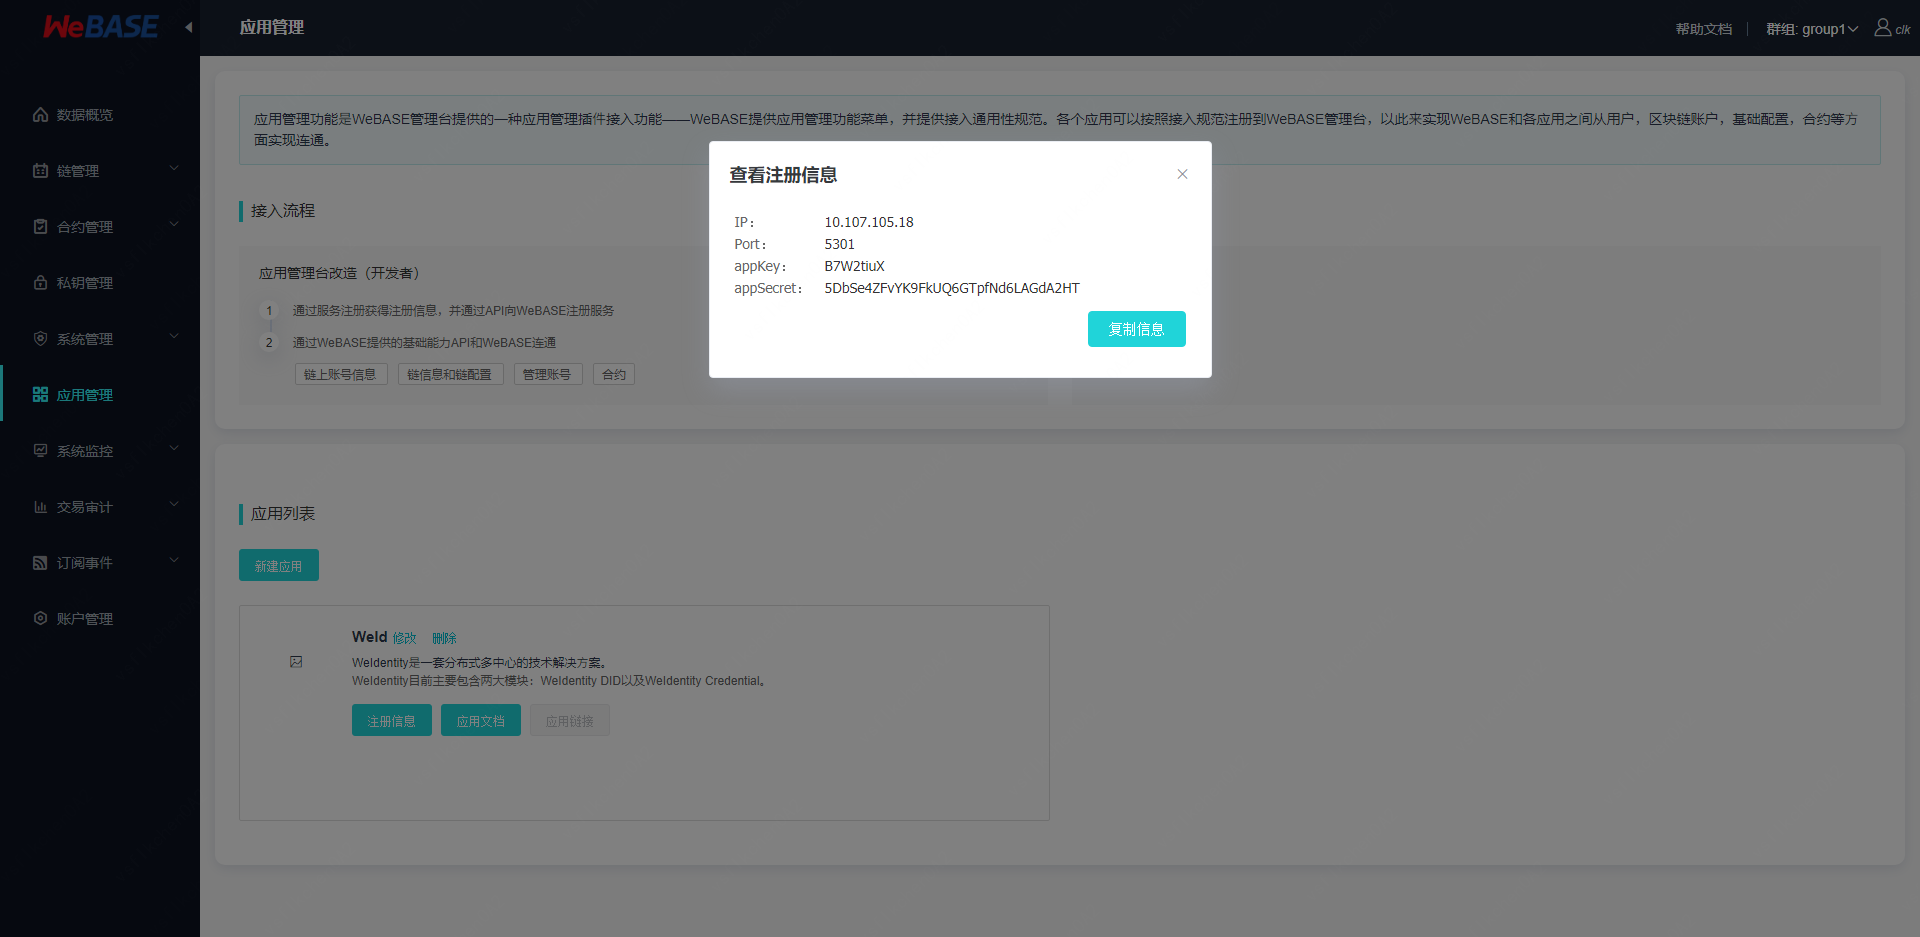
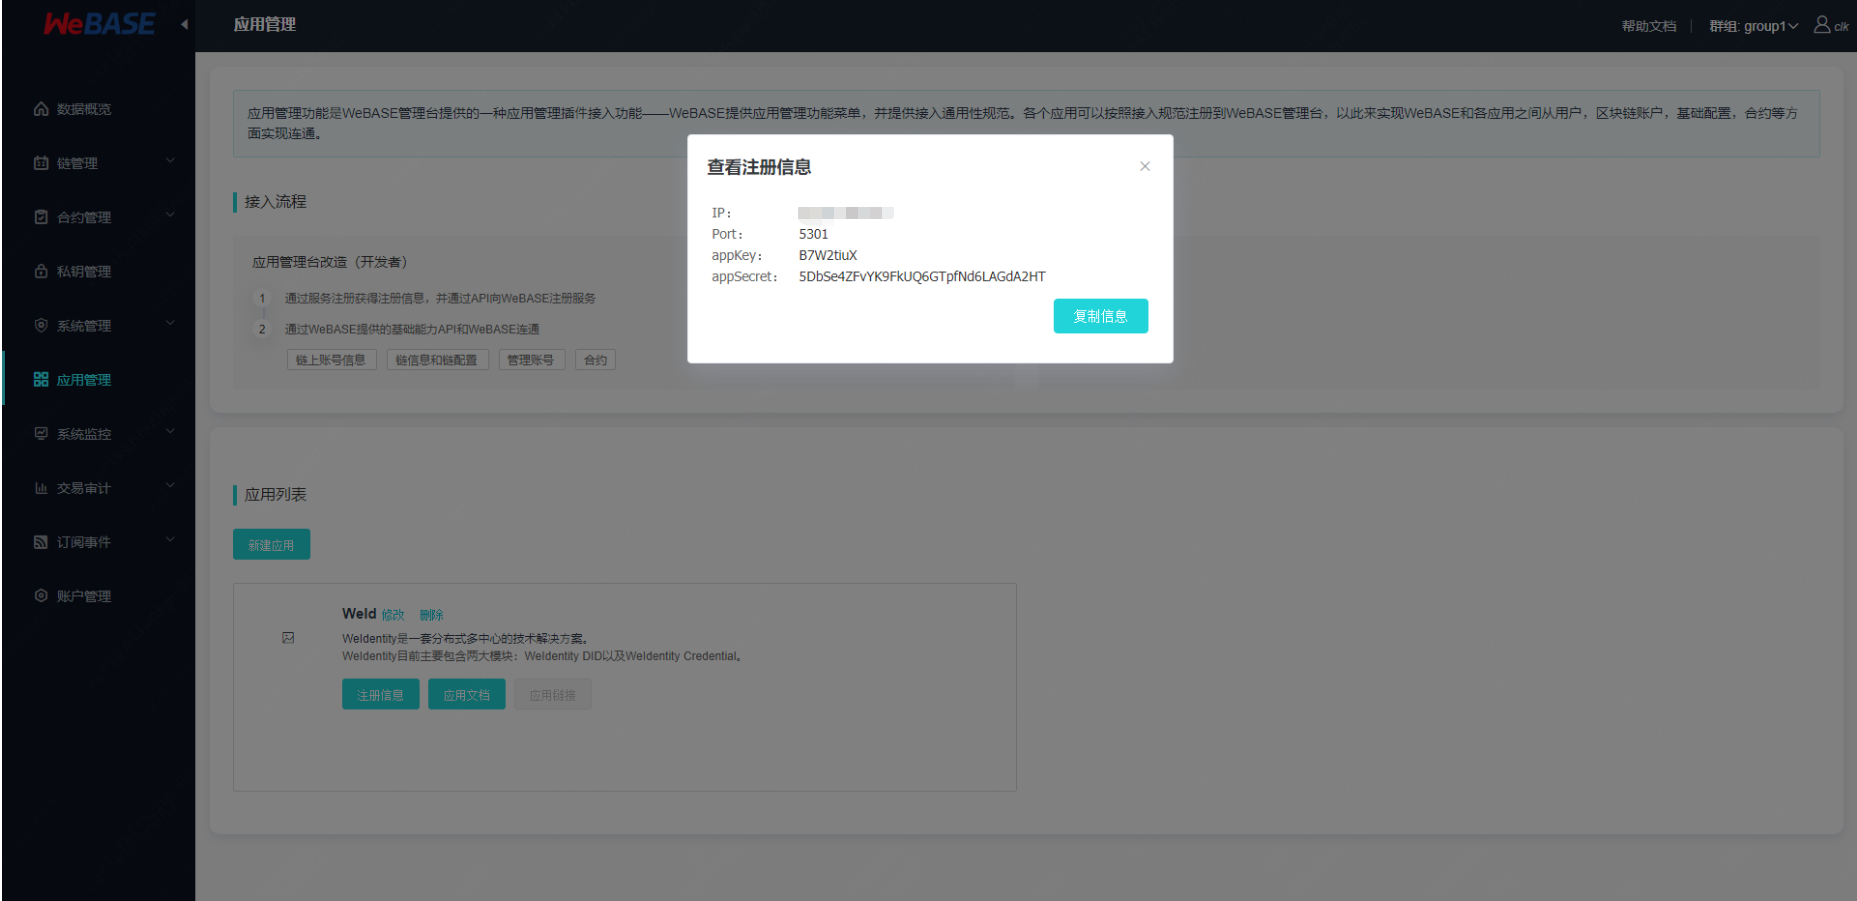
add Gittee

diff --git a/docs/WeBASE/introduction.md b/docs/WeBASE/introduction.md
@@ -19,43 +19,87 @@ WeBASE所有子系统独立存在，均可独立部署，独立提供服务。
 
 ## 整体架构
 完整的部署架构如下，其中WeBASE-Front需要和区块链节点同机部署。
-![[]](../../images/WeBASE/architecture.png)
+![](../../images/WeBASE/architecture.png)
 
 ## 功能介绍
 从可视化，智能合约，交易，数据四个维度设计各个中间件，各模块主要功能如下
-![[]](../../images/WeBASE/function.png)
+![](../../images/WeBASE/function.png)
 
 ## 各子系统简介
 
-- **节点前置服务** [WeBASE-Front仓库](https://github.com/WeBankFinTech/WeBASE-Front) 集成web3sdk，提供RESTful风格的接口，客户端可以使用http的形式和节点进行交互，内置内存数据库，采集节点健康度数据。内置web控制台，实现节点的可视化操作。
+- **节点前置服务** 
+
+  集成web3sdk，提供RESTful风格的接口，客户端可以使用http的形式和节点进行交互，内置内存数据库，采集节点健康度数据。内置web控制台，实现节点的可视化操作。
+
+  [Github地址](https://github.com/WeBankFinTech/WeBASE-Front)
+
+  [Gittee地址]( https://gitee.com/WeBank/WeBASE-Front)
+
+  [说明文档](https://webasedoc.readthedocs.io/zh_CN/latest/docs/WeBASE-Front/index.html#)
 
 - **节点管理服务** 
-[WeBASE-Node-Manager仓库](https://github.com/WeBankFinTech/WeBASE-Node-Manager) 
-处理前端页面所有web请求，管理各个节点的状态，管理链上所有智能合约，对区块链的数据进行统计、分析，对异常交易的审计，私钥管理等。
+
+  处理前端页面所有web请求，管理各个节点的状态，管理链上所有智能合约，对区块链的数据进行统计、分析，对异常交易的审计，私钥管理等。
+
+  [Github地址](https://github.com/WeBankFinTech/WeBASE-Node-Manager)
+
+  [Gittee地址]( https://gitee.com/WeBank/WeBASE-Node-Manager)
+
+  [说明文档](https://webasedoc.readthedocs.io/zh_CN/latest/docs/WeBASE-Node-Manager/index.html#)
 
 - **WeBASE管理平台** 
-[WeBASE-Web仓库](https://github.com/WeBankFinTech/WeBASE-Web)
-可视化操作平台，可基于此平台查看节点信息，开发智能合约等。
+  可视化操作平台，可基于此平台查看节点信息，开发智能合约等。
+
+  [Github地址](https://github.com/WeBankFinTech/WeBASE-Web)
+
+  [Gittee地址]( https://gitee.com/WeBank/WeBASE-Web)
+
+  [说明文档](https://webasedoc.readthedocs.io/zh_CN/latest/docs/WeBASE-Web/index.html#)
 
 - **交易服务** 
-[WeBASE-Transcation仓库](https://github.com/WeBankFinTech/WeBASE-Transcation) 接收交易请求，缓存交易到数据库中，异步上链，可大幅提升吞吐量，解决区块链的tps瓶颈。
+
+  接收交易请求，缓存交易到数据库中，异步上链，可大幅提升吞吐量，解决区块链的tps瓶颈。
+
+  [Github地址](https://github.com/WeBankFinTech/WeBASE-Transcation)
+
+  [Gittee地址]( https://gitee.com/WeBank/WeBASE-Transcation)
+
+  [说明文档](https://webasedoc.readthedocs.io/zh_CN/latest/docs/WeBASE-Transcation/index.html#)
 
 - **私钥托管和签名服务** 
-[WeBASE-Sign仓库](https://github.com/WeBankFinTech/WeBASE-Sign) 托管用户私钥，提供云端签名。
+  托管用户私钥，提供云端签名。
+
+  [Github地址](https://github.com/WeBankFinTech/WeBASE-Sign)
+
+  [Gittee地址]( https://gitee.com/WeBank/WeBASE-Sign)
+
+  [说明文档](https://webasedoc.readthedocs.io/zh_CN/latest/docs/WeBASE-Sign/index.html#)
 
 - **链管理服务子系统** 
-[WeBASE-Chain-Manager仓库](https://github.com/WeBankFinTech/WeBASE-Chain-Manager) 支持管理多条链和动态群组管理功能，支持国密链、非国密链。
+  支持管理多条链和动态群组管理功能，支持国密链、非国密链。
+
+  [Github地址](https://github.com/WeBankFinTech/WeBASE-Chain-Manager)
+
+  [Gittee地址]( https://gitee.com/WeBank/WeBASE-Chain-Manager)
+
+  [说明文档](https://webasedoc.readthedocs.io/zh_CN/latest/docs/WeBASE-Chain-Manager/index.html#)
 
 - **数据统计服务子系统** 
-[WeBASE-Stat仓库](https://github.com/WeBankFinTech/WeBASE-Stat) 以前置为基础，拉取CPU、内存、IO、群组大小、群组gas、群组网络流量的数据，记录数据库。
+  以前置为基础，拉取CPU、内存、IO、群组大小、群组gas、群组网络流量的数据，记录数据库。
+
+  [Github地址](https://github.com/WeBankFinTech/WeBASE-Stat)
+
+  [Gittee地址]( https://gitee.com/WeBank/WeBASE-Stat)
+
+  [说明文档](https://webasedoc.readthedocs.io/zh_CN/latest/docs/WeBASE-Stat/index.html#)
 
 - **数据监管服务** 
-[WeBASE-Data仓库](https://github.com/WeBankFinTech/WeBASE-Data) 以前置为基础，导出区块链数据并解析，提供一个可视化的监管视图。可以查询交易属于哪条链，哪个用户，哪个合约，保证链上数据可查可管。
+  以前置为基础，导出区块链数据并解析，提供一个可视化的监管视图。可以查询交易属于哪条链，哪个用户，哪个合约，保证链上数据可查可管。
 
-- **数据导出代码生成工具**
-[WeBASE-Codegen-Monkey仓库](https://github.com/WeBankFinTech/WeBASE-Codegen-Monkey) 代码生成工具，通过配置可以生成数据导出的核心代码。
+  [Github地址](https://github.com/WeBankFinTech/WeBASE-Data)
 
-- **数据导出服务** 
-[WeBASE-Collect-Bee仓库](https://github.com/WeBankFinTech/WeBASE-Collect-Bee) 导出区块链上的基础数据，如当前块高、交易总量等，通过智能合约的配置，导出区块链上合约的业务数据，包括event、构造函数、合约地址、执行函数的信息等。
+  [Gittee地址]( https://gitee.com/WeBank/WeBASE-Data)
+
+  [说明文档](https://webasedoc.readthedocs.io/zh_CN/latest/docs/WeBASE-Data/index.html#)
 
 各子系统的技术文档可到[WeBASE子系统文档](https://fintech.webank.com/developer/docs/webase/docs/WeBASE/subsystem.html)中查看

diff --git a/index.rst b/index.rst
@@ -7,7 +7,7 @@ WeBASE 技术文档
 .. admonition:: Overview
 
     - WEBASE整体架构，请参考 `整体架构文档 <./docs/WeBASE/introduction.html>`_ 
-    - WEBASE搭建，请参考 `安装文档 <./docs/WeBASE/install.html>`_ 或`WeBASE源码仓库 <https://github.com/WebankFinTech/WeBASE>`_
+    - WEBASE搭建，请参考 `安装文档 <./docs/WeBASE/install.html>`_ 、 `Github地址<https://github.com/WebankFinTech/WeBASE>`_ 、 `Gittee地址<https://gitee.com/WeBank/WeBASE`_ 
     - WeBASE-Front详细介绍请参考 `WeBASE-Front文档 <./docs/WeBASE-Front/README.html>`_ 或`WeBASE-Front源码仓库 <https://github.com/WebankFinTech/WeBASE-Front>`_
     - WeBASE-Node-Manager详细介绍请参考 `WeBASE-Node-Manager文档 <./docs/WeBASE-Node-Manager/README.html>`_ 或`WeBASE-Node-Manager源码仓库 <https://github.com/WebankFinTech/WeBASE-Node-Manager>`_
     - WeBASE-Web详细介绍请参考 `WeBASE-Web文档 <./docs/WeBASE-Web/README.html>`_ 或`WeBASE-Web源码仓库 <https://github.com/WebankFinTech/WeBASE-Web>`_

diff --git a/docs/WeBASE-Console-Suit/index.md b/docs/WeBASE-Console-Suit/index.md
@@ -314,7 +314,7 @@ FISCO-BCOS证书说明可以参考FISCO-BCOS使用手册的[证书说明](https:
 
 ![](../../images/WeBASE-Console-Suit/app_new.png)
 
-新增应用后，会生成应用相关的注册信息，为应用分配的`appKey`（应用Key）和`appSecret`（应用密码，应用自己保存，不要暴露）：
+新增应用后，会生成应用相关的注册信息，为应用分配的`appKey`（应用Key）和`appSecret`（应用密码，应用自己保存，不要暴露），WeBASE的`IP`为内网IP，访问不了的话需对应修改：
 
 ![](../../images/WeBASE-Console-Suit/app_register_info.png)
 
